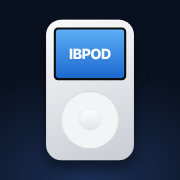
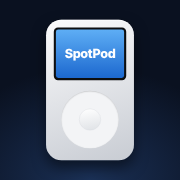
Rename IBPOD to SpotPod
Claude-Session: https://claude.ai/code/session_01Q3XB6jUfvSdwdJwMcGZR9M

Changed region(s): [[0.3611, 0.25, 0.6667, 0.3333]]

diff --git a/index.html b/index.html
@@ -3,13 +3,13 @@
 <head>
 <meta charset="utf-8">
 <meta name="viewport" content="width=device-width, initial-scale=1, viewport-fit=cover">
-<title>IBPOD</title>
-<meta name="description" content="IBPOD: a click-wheel music player for your Spotify playlists.">
+<title>SpotPod</title>
+<meta name="description" content="SpotPod: a click-wheel music player for your Spotify playlists.">
 <meta name="theme-color" content="#0a1120">
 <meta name="mobile-web-app-capable" content="yes">
 <meta name="apple-mobile-web-app-capable" content="yes">
 <meta name="apple-mobile-web-app-status-bar-style" content="black-translucent">
-<meta name="apple-mobile-web-app-title" content="IBPOD">
+<meta name="apple-mobile-web-app-title" content="SpotPod">
 <link rel="manifest" href="manifest.json">
 <link rel="icon" href="icon-192.png" type="image/png">
 <link rel="apple-touch-icon" href="apple-touch-icon.png">
@@ -49,7 +49,7 @@ body {
   place-items: center;
   overflow-x: hidden;
 }
-/* phones: one column. desktops: the IBPOD on the left, its tools on the right */
+/* phones: one column. desktops: the SpotPod on the left, its tools on the right */
 .stage { display: flex; flex-direction: column; align-items: center; gap: 18px; position: relative; width: 100%; max-width: 62rem; }
 .side { display: flex; flex-direction: column; align-items: center; gap: 18px; width: 100%; position: relative; z-index: 1; }
 @media (min-width: 860px) and (min-height: 520px) {
@@ -523,7 +523,7 @@ kbd {
 <body>
 <main class="stage" id="stage">
   <div class="glow-layer" aria-hidden="true"><div class="glow" id="glow"></div></div>
-  <h1 class="title">IBPOD <span>· your Spotify, click-wheel style</span></h1>
+  <h1 class="title">SpotPod <span>· your Spotify, click-wheel style</span></h1>
 
   <div class="ipod-wrap" id="wrap">
     <div class="ipod" id="ipod" data-body="silver" data-wheel="match">
@@ -531,7 +531,7 @@ kbd {
         <div class="screen" id="screen" aria-live="polite" data-theme="classic" data-hi="blue" data-text="normal">
           <div class="hdr">
             <span class="hdr-state" id="hdrState"></span>
-            <span class="hdr-title" id="hdrTitle">IBPOD</span>
+            <span class="hdr-title" id="hdrTitle">SpotPod</span>
             <span class="bat" id="bat"><span id="batPct">100%</span><span class="battery" id="battery"><i id="batFill"></i></span></span>
           </div>
           <div class="view" id="view"></div>
@@ -567,7 +567,7 @@ kbd {
     <p><b>You're hearing 30-second previews.</b> Spotify only plays full songs when you're logged in, in this same browser.</p>
     <ol>
       <li><a href="https://accounts.spotify.com/login" target="_blank" rel="noopener">Log into Spotify</a> (opens a new tab)</li>
-      <li>Come back here and reload IBPOD</li>
+      <li>Come back here and reload SpotPod</li>
     </ol>
   </div>
 
@@ -578,10 +578,10 @@ kbd {
   </form>
 
   <section class="panel setup" id="setupPanel" hidden aria-label="Set up Spotify Premium">
-    <b>Set up Spotify for IBPOD (owner only, one time)</b>
+    <b>Set up Spotify for SpotPod (owner only, one time)</b>
     <ol>
       <li>Go to <a href="https://developer.spotify.com/dashboard" target="_blank" rel="noopener">developer.spotify.com/dashboard</a> and log in with Spotify.</li>
-      <li>Click <b>Create app</b>. Name it <b>IBPOD</b>. For <b>Redirect URI</b>, add <code id="redirectUri"></code> <button type="button" class="ghost" id="copyRedirect">Copy</button></li>
+      <li>Click <b>Create app</b>. Name it <b>SpotPod</b>. For <b>Redirect URI</b>, add <code id="redirectUri"></code> <button type="button" class="ghost" id="copyRedirect">Copy</button></li>
       <li>Tick <b>Web API</b> and <b>Web Playback SDK</b>, agree to the terms and click <b>Save</b>.</li>
       <li>Open the app's <b>Settings</b>, copy the <b>Client ID</b> and paste it here:</li>
     </ol>
@@ -832,17 +832,17 @@ function queueStep(d) {
 
 /* =========================================================
    SPOTIFY PREMIUM MODE
-   With Spotify Premium, IBPOD logs into Spotify and becomes a real Spotify
+   With Spotify Premium, SpotPod logs into Spotify and becomes a real Spotify
    player (Spotify's Web Playback SDK): full songs, private playlists,
    shuffle and skip inside playlists, and volume on the wheel.
    ========================================================= */
-const SPOTIFY_CLIENT_ID = "6114f72793e24ed695cf4723f934030f";   // the IBPOD app's Client ID from developer.spotify.com (safe to share)
+const SPOTIFY_CLIENT_ID = "6114f72793e24ed695cf4723f934030f";   // the SpotPod app's Client ID from developer.spotify.com (safe to share)
 const clientId = () => SPOTIFY_CLIENT_ID || String(load("ibpod-client-id", "") || "");
 const REDIRECT = location.origin + location.pathname.replace(/index\.html$/, "");
 const SCOPES = "streaming user-read-email user-read-private user-read-playback-state user-modify-playback-state playlist-read-private playlist-read-collaborative user-library-read";
 const PREM = { tokens: load("ibpod-spotify", null), ready: false, deviceId: null, player: null, track: null, me: null, err: null, pos: 0, dur: 0, paused: true, at: 0, volUntil: 0, shownUri: null };
 if (PREM.tokens && (typeof PREM.tokens.access !== "string" || typeof PREM.tokens.refresh !== "string")) PREM.tokens = null;
-// connected: someone is logged into their own Spotify. premiumOn: and it's Premium, so IBPOD plays full songs itself
+// connected: someone is logged into their own Spotify. premiumOn: and it's Premium, so SpotPod plays full songs itself
 const connected = () => CAN_EMBED && !!PREM.tokens && !!clientId();
 const premiumOn = () => connected() && !PREM.free;
 const LIKED = { name: "Liked Songs", by: "You", type: "Songs", uri: "spotify:liked", url: "https://open.spotify.com/collection/tracks" };
@@ -918,7 +918,7 @@ async function startPremium() {
   render();
   if (!connected() || PREM.free) return;   // Free accounts: playlists yes, Spotify's full player no
   window.onSpotifyWebPlaybackSDKReady = () => {
-    const p = new Spotify.Player({ name: "IBPOD", getOAuthToken: cb => accessToken().then(cb, () => {}), volume: S.vol / 16 });
+    const p = new Spotify.Player({ name: "SpotPod", getOAuthToken: cb => accessToken().then(cb, () => {}), volume: S.vol / 16 });
     PREM.player = p;
     p.addListener("ready", ({ device_id }) => { PREM.deviceId = device_id; PREM.ready = true; PREM.err = null; render(); });
     p.addListener("not_ready", () => { PREM.ready = false; });
@@ -1013,7 +1013,7 @@ async function searchSpotify(q) {
 }
 
 // ---- recommendations ----
-// Spotify switched off its own "recommendations" for new apps, so IBPOD
+// Spotify switched off its own "recommendations" for new apps, so SpotPod
 // makes its own from your top artists, their genres and what you play most
 async function searchTracks(q) {
   try {
@@ -1027,7 +1027,7 @@ async function mixForYou() {
     api("/me/top/tracks?limit=50&time_range=medium_term").catch(() => ({ items: [] })),
   ]);
   const artists = (top.items || []).filter(Boolean);
-  if (!artists.length) throw { message: "Listen to more music on Spotify so IBPOD can learn what you like." };
+  if (!artists.length) throw { message: "Listen to more music on Spotify so SpotPod can learn what you like." };
   const known = new Set((mine.items || []).map(t => t.uri));
   const genres = [...new Set(artists.flatMap(a => a.genres || []))].slice(0, 3);
   const lists = await Promise.all([...artists.slice(0, 5).map(a => searchTracks(`artist:"${a.name}"`)), ...genres.map(g => searchTracks(`genre:"${g}"`))]);
@@ -1324,7 +1324,7 @@ const sel = v => NAV.sel[v] || 0;
 const curPl = () => playlists.find(p => p.id === NAV.pl) || null;
 
 // Spotify's equalizer lives in the Spotify app's settings; websites can't open it,
-// so IBPOD shows the way there
+// so SpotPod shows the way there
 const EQ_GUIDES = [
   { label: "On a phone", steps: [
     "Open the Spotify app.",
@@ -1404,7 +1404,7 @@ function render() {
   const v = view();
   const pl = curPl();
   $("#hdrTitle").textContent = {
-    menu: "IBPOD", now: "Now Playing", pls: "Playlists", pl: pl ? pl.name : "Playlist", browse: "Browse",
+    menu: "SpotPod", now: "Now Playing", pls: "Playlists", pl: pl ? pl.name : "Playlist", browse: "Browse",
     search: "Search Spotify", eq: "Equalizer", eqsteps: (EQ_GUIDES[NAV.eqGuide] || EQ_GUIDES[0]).label, list: NAV.list ? NAV.list.label : "Spotify", addto: "Add to Playlist", help: "Controls",
     settings: "Settings", account: "Spotify Account", foryou: "For You", nowmenu: "Song", find: "Search", choice: OPTION_TITLES[NAV.choice] || "Settings", about: "About", reset: "Reset Settings",
   }[v];
@@ -1460,8 +1460,8 @@ function render() {
     html = listHTML(OPTIONS[NAV.choice].map(o => ({ label: o[1], value: S[NAV.choice] === o[0] ? "✓" : null })), "choice");
   } else if (v === "account") {
     const rows = accountRows();
-    if (!CAN_EMBED) html = msgHTML("Use the IBPOD website", "Logging into Spotify works on isgoodtf2.github.io/IBPOD, not inside claude.ai.");
-    else if (!clientId()) html = msgHTML("Not set up yet", "IBPOD's owner needs to finish the Spotify setup under the IBPOD.");
+    if (!CAN_EMBED) html = msgHTML("Use the SpotPod website", "Logging into Spotify works on isgoodtf2.github.io/IBPOD, not inside claude.ai.");
+    else if (!clientId()) html = msgHTML("Not set up yet", "SpotPod's owner needs to finish the Spotify setup under the SpotPod.");
     else {
       const hint = PREM.err || (!PREM.tokens ? "Log in to see your own playlists. Premium plays full songs." : "");
       html = (hint ? `<div class="hint-bar">${esc(hint)}</div>` : "") + listHTML(rows.map(r => ({ label: r.label })), "account");
@@ -1474,14 +1474,14 @@ function render() {
     const F = NAV.find;
     if (F.loading) html = msgHTML("", "Searching Spotify…", true);
     else if (F.err) html = msgHTML(F.err[0], F.err[1]);
-    else if (!F.items) html = msgHTML("Search Spotify", "Type in the search box below the IBPOD, then press Search.");
+    else if (!F.items) html = msgHTML("Search Spotify", "Type in the search box below the SpotPod, then press Search.");
     else if (!F.items.length) html = msgHTML("Nothing found", "Try different words.");
     else html = listHTML(F.items.map(it => ({ label: it.by && it.type === "Song" ? `${it.name} · ${it.by}` : it.name, value: it.type })), "find");
   } else if (v === "reset") {
     html = listHTML([{ label: "Cancel" }, { label: "Reset all settings" }], "reset");
   } else if (v === "about") {
     html = `<div class="help"><div class="help-inner" style="transform:translateY(${-NAV.help * 18}px)">
-      <p><b>IBPOD</b> · version 3</p>
+      <p><b>SpotPod</b> · version 3</p>
       <p>Created by <b>Aaron</b>.</p>
       <p>Music plays through Spotify. Log in with My Spotify to see your own playlists. With Premium you also get full songs and volume on the wheel.</p>
       <p class="dim">Playlists: ${playlists.length} · Saved links: ${links.length}</p>
@@ -1493,7 +1493,7 @@ function render() {
     const g = EQ_GUIDES[NAV.eqGuide] || EQ_GUIDES[0];
     html = `<div class="help"><div class="help-inner" style="transform:translateY(${-NAV.help * 18}px)">
       <ol class="steps">${g.steps.map(t => `<li>${t}</li>`).join("")}</ol>
-      <p class="dim">Can't find it? Update the Spotify app. The equalizer changes music played in the Spotify app, not the IBPOD player in your browser.</p>
+      <p class="dim">Can't find it? Update the Spotify app. The equalizer changes music played in the Spotify app, not the SpotPod player in your browser.</p>
     </div></div>`;
   } else if (v === "help") {
     html = `<div class="help"><div class="help-inner" style="transform:translateY(${-NAV.help * 18}px)">
@@ -1502,9 +1502,9 @@ function render() {
       <p><b>⏮ ⏭</b> move through the list you're playing. <b>Hold</b> them to rewind or fast-forward. <b>Shuffle</b> mixes up that list.</p>
       <p><b>Now Playing:</b> the centre button opens Rewind, Forward, Scrub, Add to Playlist and Songs Like This.</p>
       <p><b>Search</b> and <b>For You</b> need you logged into Spotify (My Spotify).</p>
-      <p class="dim">Inside one Spotify playlist, use ⏭ in the Spotify player. To shuffle single songs, add songs from Search to an IBPOD playlist.</p>
+      <p class="dim">Inside one Spotify playlist, use ⏭ in the Spotify player. To shuffle single songs, add songs from Search to an SpotPod playlist.</p>
       <p><b>Make a playlist:</b> Playlists → + New Playlist. Then play anything and press the centre button on Now Playing to add it.</p>
-      <p><b>Battery:</b> it runs down faster while music plays. Click the charging port on the bottom edge of the IBPOD to plug in or unplug the charger.</p>
+      <p><b>Battery:</b> it runs down faster while music plays. Click the charging port on the bottom edge of the SpotPod to plug in or unplug the charger.</p>
       <p><b>Settings</b> has colours, screen themes, text size, clicker sound, vibration, wheel speed, backlight and battery options.</p>
       <p class="dim">Rename a playlist or remove songs in the box under the iPod. Playlists save in this browser.</p>
       <p class="dim">Logged into Spotify in this browser? You get full songs. If not, 30-second previews.</p>
@@ -1692,12 +1692,12 @@ function showBattery() {
 setInterval(batteryTick, 1000);
 window.addEventListener("pagehide", saveBattery);
 
-/* ---------- the search box under the IBPOD ---------- */
+/* ---------- the search box under the SpotPod ---------- */
 $("#findPanel").addEventListener("submit", async e => {
   e.preventDefault();
   const q = $("#findIn").value.trim();
   if (!q) { $("#findMsg").textContent = "Type a song, artist, album or playlist first."; return; }
-  if (BAT.dead) { $("#findMsg").textContent = "The IBPOD's battery is empty. Charge it first."; return; }
+  if (BAT.dead) { $("#findMsg").textContent = "The SpotPod's battery is empty. Charge it first."; return; }
   $("#findIn").blur();   // so the arrow keys move through the results
   $("#findMsg").textContent = "";
   const F = NAV.find = { label: "Search", items: null, loading: true, q };
@@ -1836,7 +1836,7 @@ function select() {
     } else if (r.act === "like") {
       const t = PREM.track;
       const artist = t ? t.artist : (PLY.current.by || "").split(",")[0].trim();
-      if (!artist) { toast("IBPOD doesn't know this song's artist"); }
+      if (!artist) { toast("SpotPod doesn't know this song's artist"); }
       else { const L = { label: "Like This", items: null, loader: () => songsLike(artist, t && t.artistId, t && t.uri) }; openList(L); loadList(L); return; }
     }
   } else if (v === "foryou") {

diff --git a/README.md b/README.md
@@ -1,11 +1,11 @@
-# IBPOD
+# SpotPod
 
 A click-wheel music player for your Spotify playlists, in your browser.
 
 **Play it:** https://isgoodtf2.github.io/IBPOD/
 
 - Spin the wheel to scroll, press the centre button to pick, MENU to go back
-- My Spotify, Browse lists and your own IBPOD playlists
+- My Spotify, Browse lists and your own SpotPod playlists
 - Shuffle, a battery you charge by clicking the port on the bottom, and lots of Settings
 - Works on phones and computers; add it to your home screen to use it like an app
 
